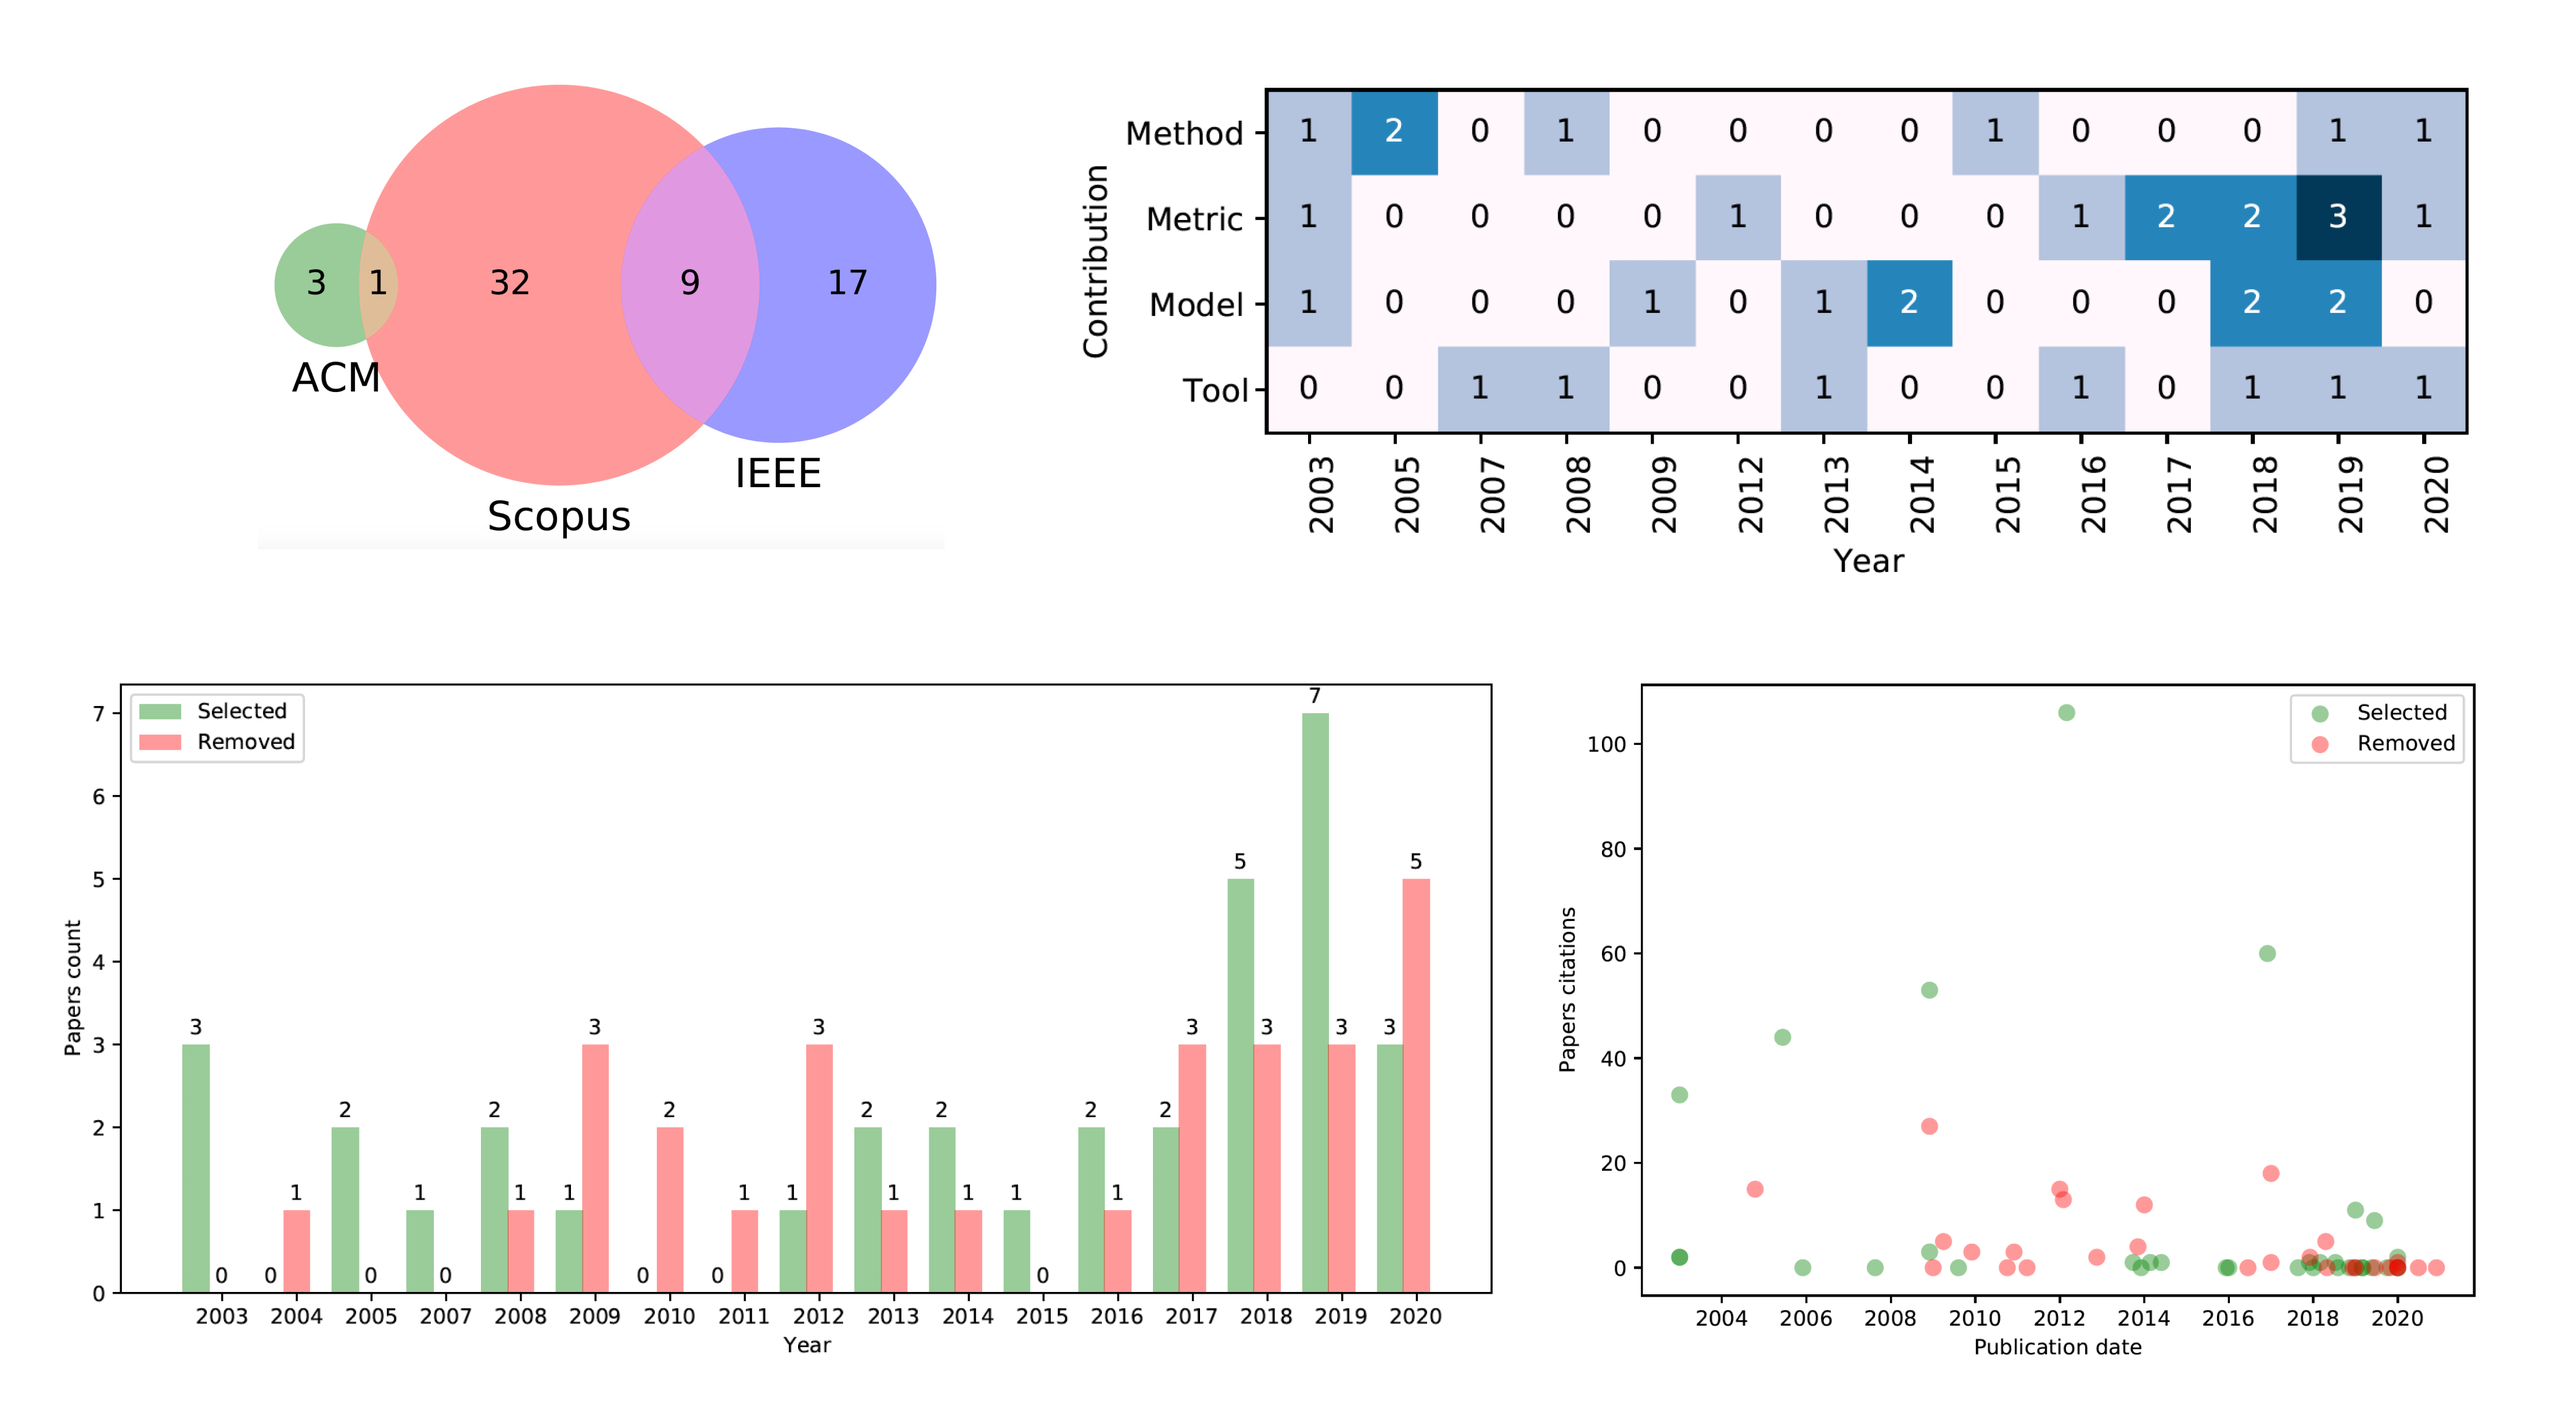
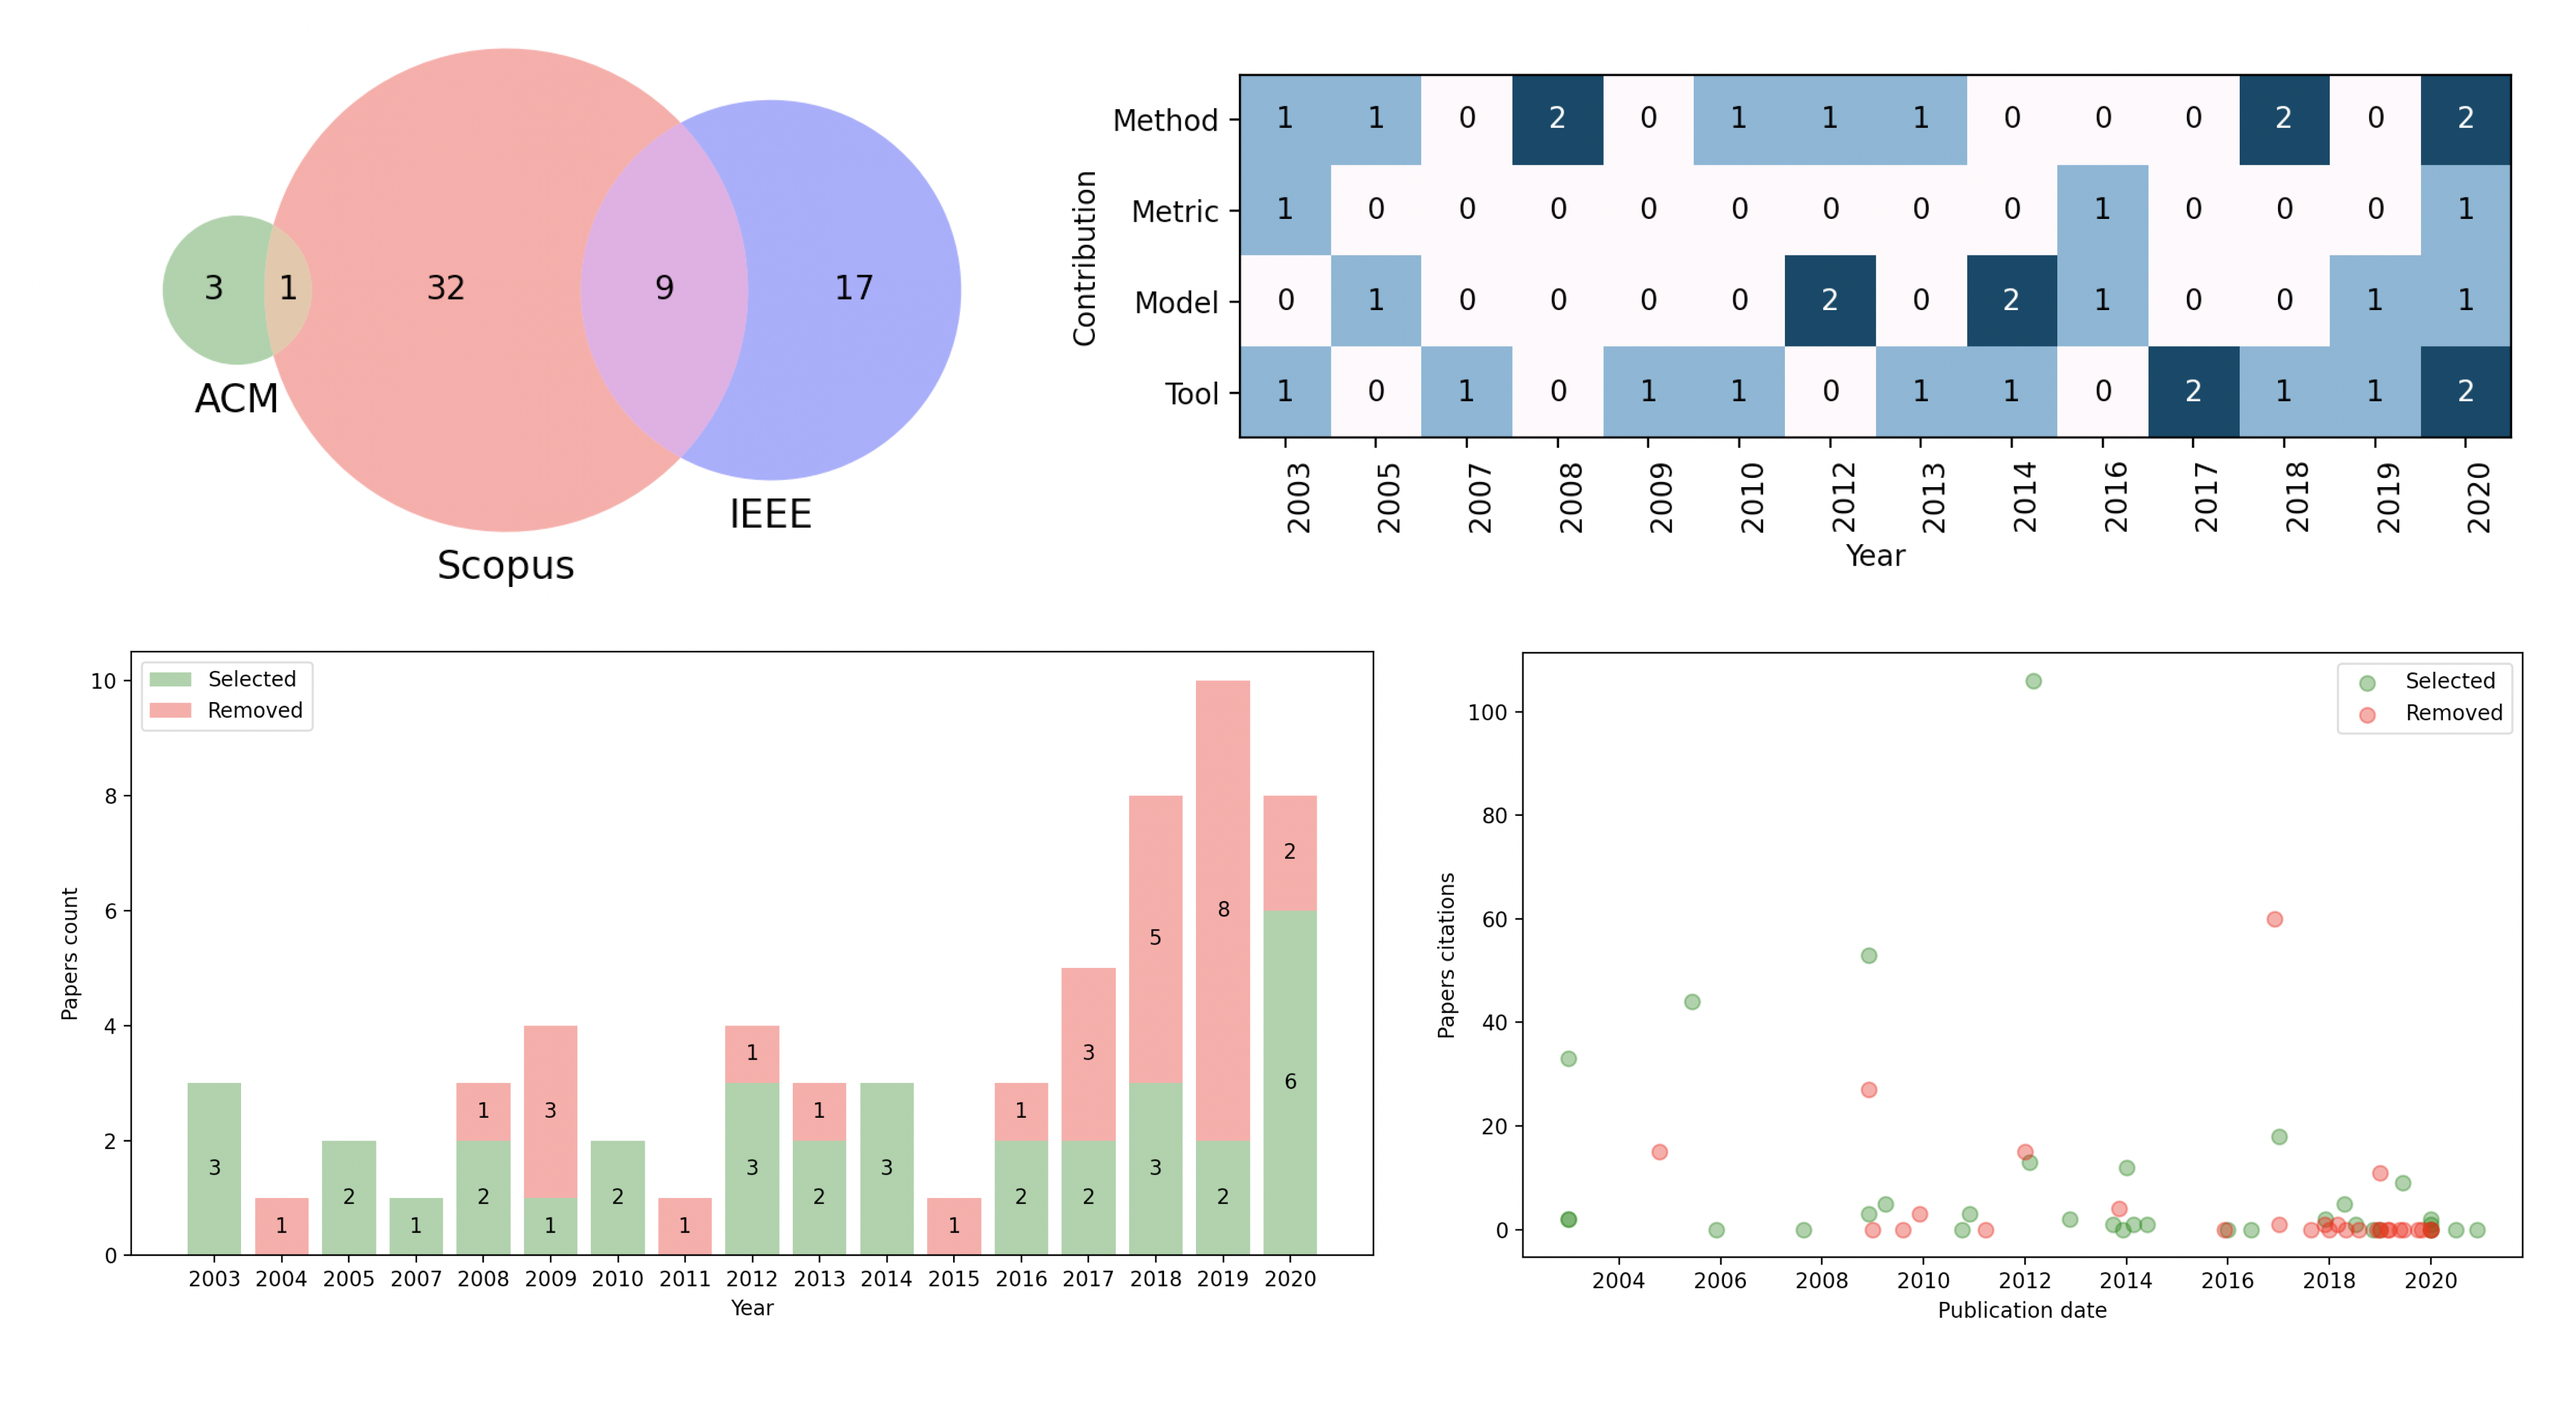
doc: update charts

diff --git a/samples/charts.py b/samples/charts.py
@@ -17,11 +17,15 @@ def autolabel(rects, ax):
     """Attach a text label above each bar in *rects*, displaying its height."""
     for rect in rects:
         height = rect.get_height()
-        ax.annotate('{}'.format(height),
-                    xy=(rect.get_x() + rect.get_width() / 2, height),
-                    xytext=(0, 3),  # 3 points vertical offset
-                    textcoords="offset points",
-                    ha='center', va='bottom')
+        width = rect.get_width()
+        x = rect.get_x()
+        y = rect.get_y()
+        if height > 0:
+            ax.annotate('{}'.format(height),
+                        xy=(x + width/2, y + height/2),
+                        xytext=(0, -5),  # 5 points vertical offset
+                        textcoords="offset points",
+                        ha='center', va='bottom')
 
 
 def databases_venn_chart(papers):
@@ -158,7 +162,7 @@ def categories_headmap_chart(papers, category_facet):
     fig.savefig(os.path.join(BASEDIR, 'categories_headmap.pdf'), bbox_inches='tight')
 
 
-def papers_selection_chart(papers):
+def papers_selection_chart(papers, stacked=False):
 
     selected_paper_by_year = {}
     removed_paper_by_year = {}
@@ -184,11 +188,16 @@ def papers_selection_chart(papers):
         removed_papers.append(removed_paper_by_year[year])
 
     x = np.arange(len(years))  # the label locations
-    width = 0.35  # the width of the bars
-
     fig, ax = plt.subplots()
-    rects1 = ax.bar(x - width, selected_papers, width, label='Selected', color='green', alpha=0.4)
-    rects2 = ax.bar(x, removed_papers, width, label='Removed', color='red', alpha=0.4)
+
+    if stacked:
+        width = 0.8
+        rects1 = ax.bar(x, selected_papers, width, label='Selected', color='green', alpha=0.4)
+        rects2 = ax.bar(x, removed_papers, width, label='Removed', color='red', alpha=0.4, bottom=selected_papers)
+    else:
+        width = 0.4
+        rects1 = ax.bar(x - width, selected_papers, width, label='Selected', color='green', alpha=0.4)
+        rects2 = ax.bar(x, removed_papers, width, label='Removed', color='red', alpha=0.4)
 
     # Add some text for labels, title and custom x-axis tick labels, etc.
     ax.set_ylabel('Papers count')
@@ -249,5 +258,5 @@ for paper in SEARCH_RESULTS['papers']:
 
 databases_venn_chart(SEARCH_RESULTS['papers'])
 categories_headmap_chart(SEARCH_RESULTS['papers'], 'Contribution')
-papers_selection_chart(SEARCH_RESULTS['papers'])
+papers_selection_chart(SEARCH_RESULTS['papers'], stacked=True)
 papers_citations_chart(SEARCH_RESULTS['papers'])
